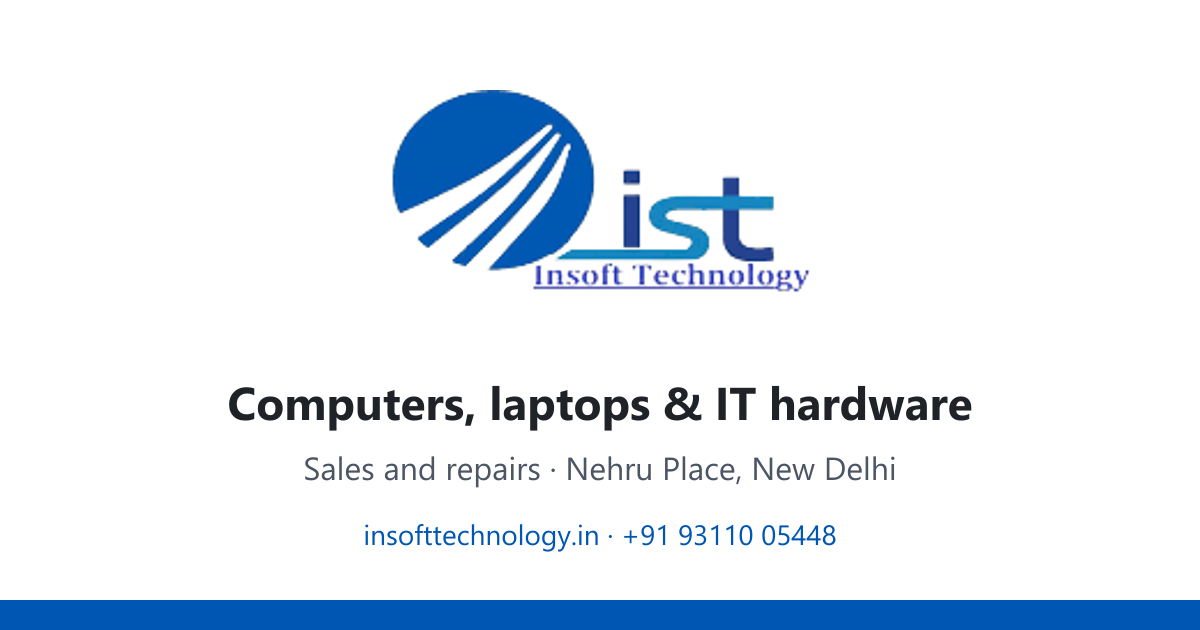
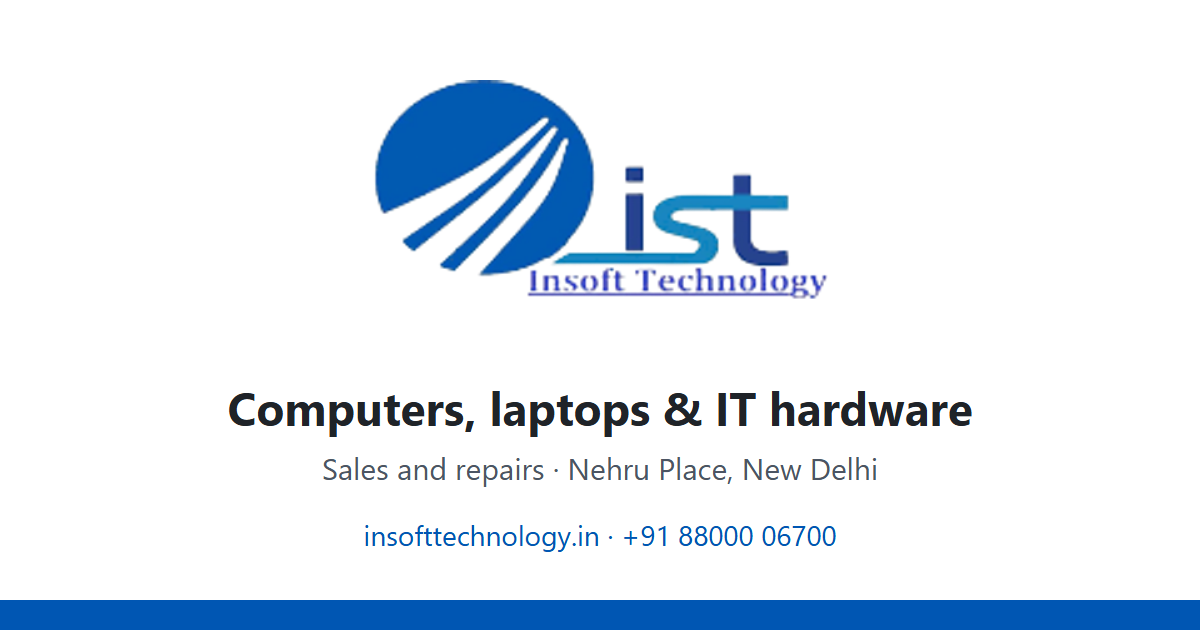
Make +91 88000 06700 the primary call and WhatsApp number

diff --git a/src/lib/site.ts b/src/lib/site.ts
@@ -7,10 +7,10 @@ export const COMPANY = {
   name: "Insoft Technology",
   legalName: "INSOFT TECHNOLOGY",
   phones: [
-    { display: "+91 93110 05448", tel: "+919311005448" },
     { display: "+91 88000 06700", tel: "+918800006700" },
+    { display: "+91 93110 05448", tel: "+919311005448" },
   ],
-  whatsapp: "919311005448",
+  whatsapp: "918800006700",
   email: "info@insofttechnology.in",
   gstin: "07ANZPS2464A1ZN",
   address: {
